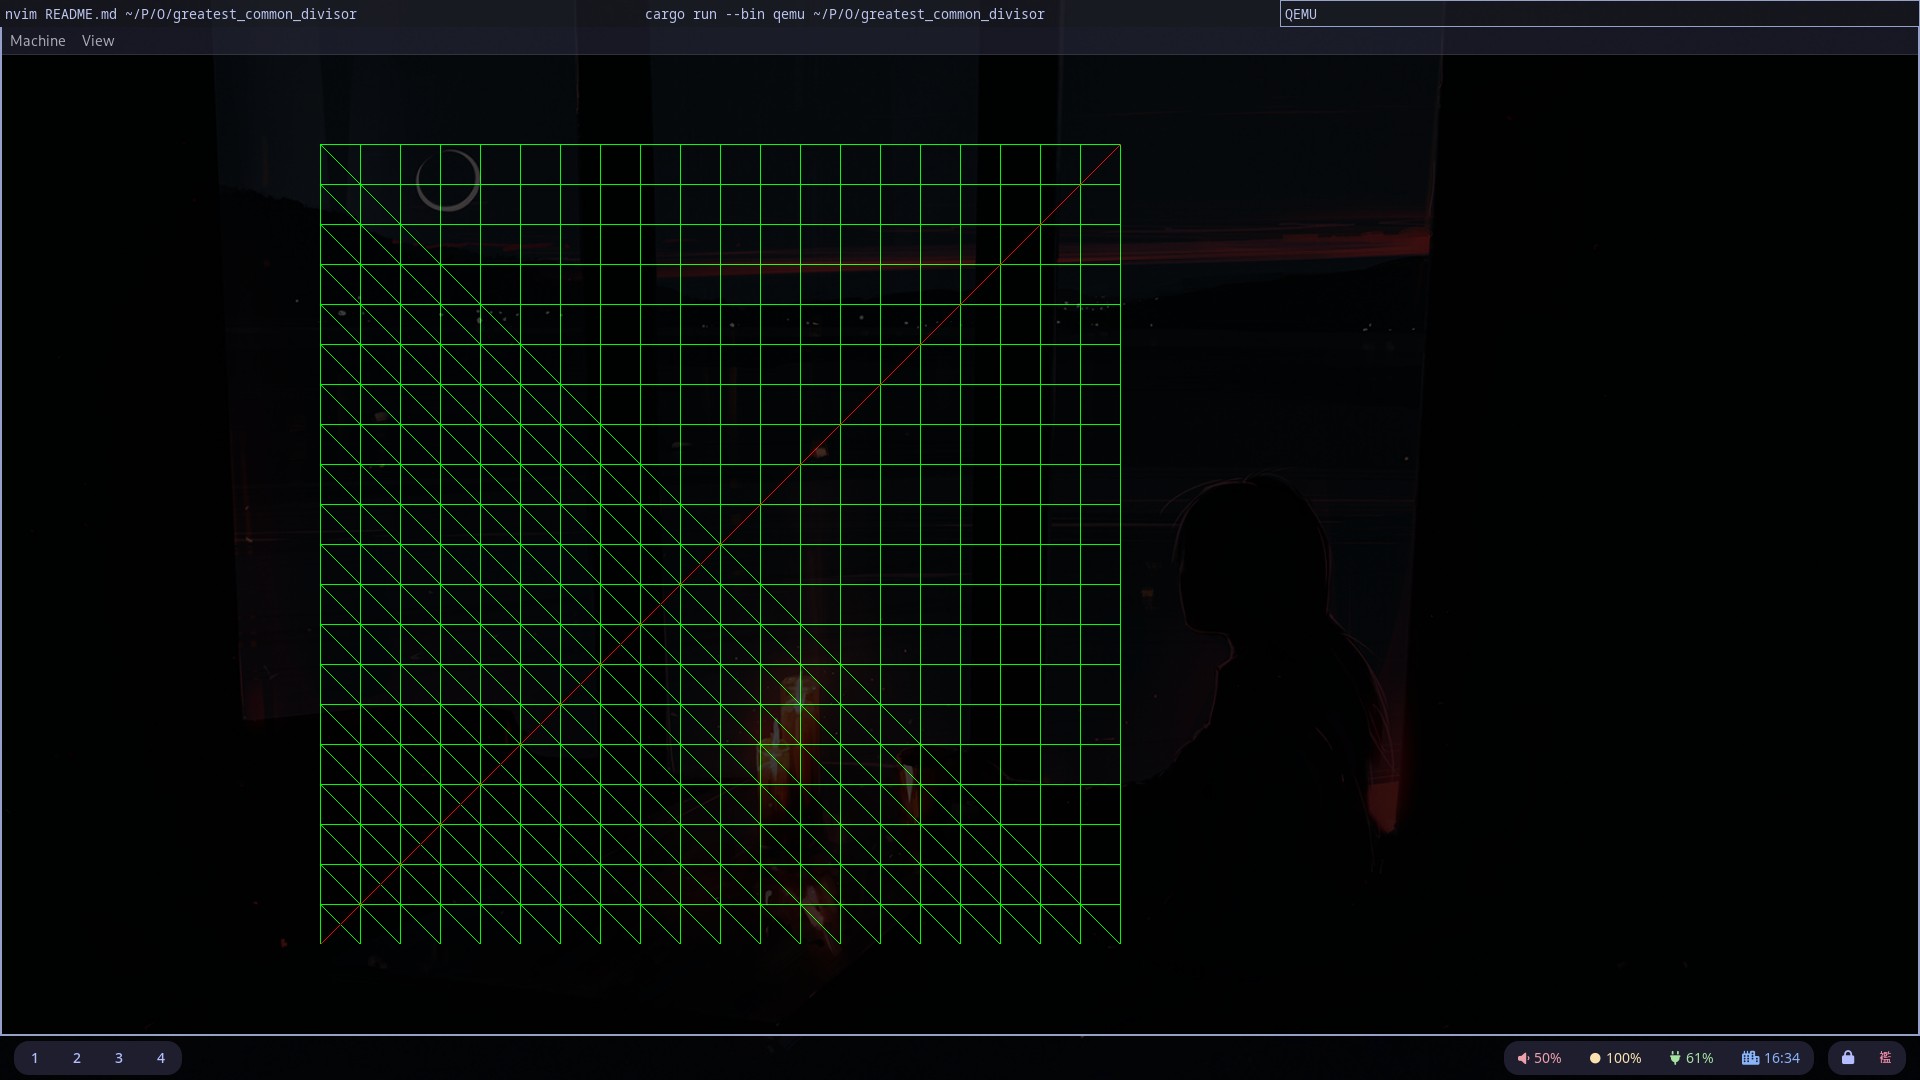
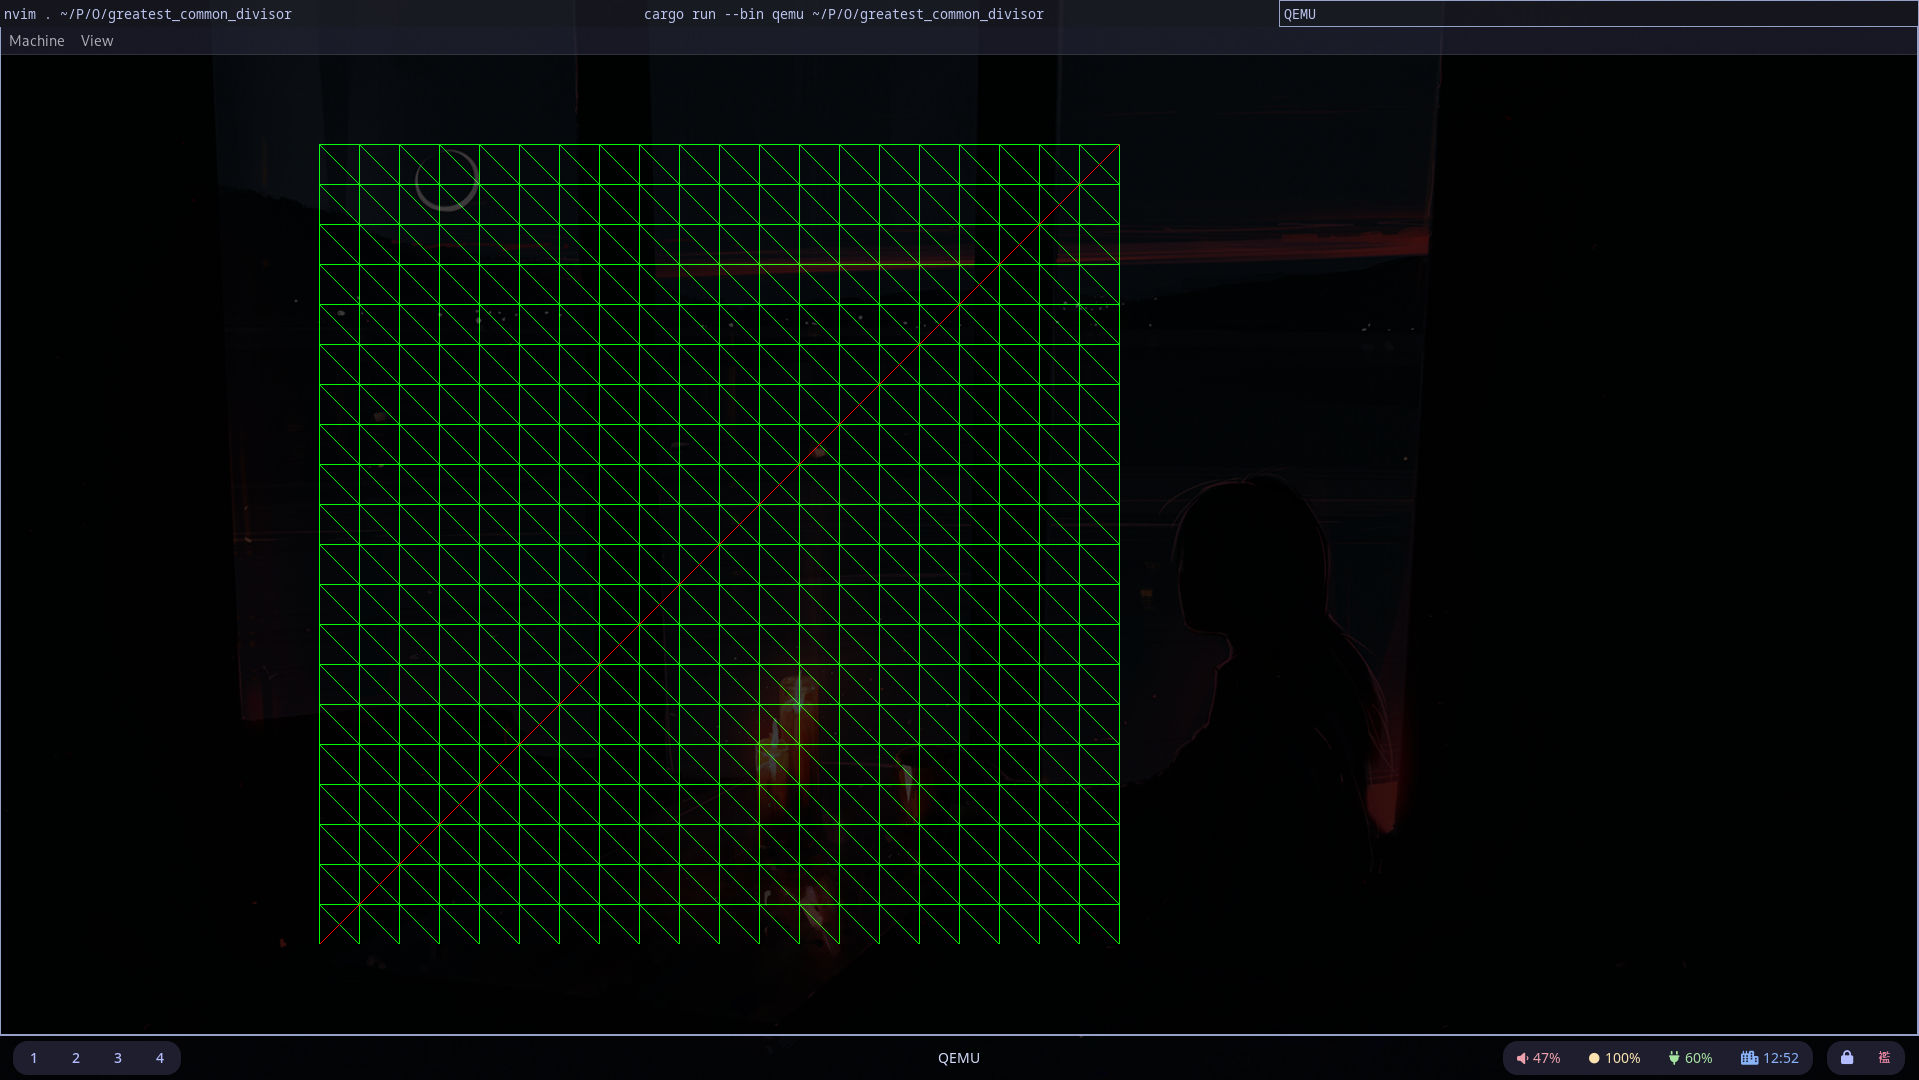
kernel: Make diagonals cover grid + update screenshot + cleanup

diff --git a/kernel/src/main.rs b/kernel/src/main.rs
@@ -26,14 +26,14 @@ fn kernel_main(boot_info: &'static mut BootInfo) -> ! {
     for n in 0..=20 {
         let step = n * 40;
 
-        // Draw 800x800 px grid 
+        // Draw 800x800 px grid
         display.draw_horizontal_line(step, 0, 800, Rgb888::GREEN);
         display.draw_vertical_line(step, 0, 800, Rgb888::GREEN);
 
         // Draw diagonals
         for x in 0..=step {
             for y in 0..=step {
-                if x + y == step {
+                if (x + y) % 40 == 0 {
                     display.draw_pixel(Pixel(Point { x, y }, Rgb888::GREEN));
                 }
             }

diff --git a/kernel/src/framebuffer.rs b/kernel/src/framebuffer.rs
@@ -53,8 +53,9 @@ impl<'f> Display<'f> {
         let (x, y) = {
             let c: (i32, i32) = coordinates.into();
 
-            (c.0 as usize, height - c.1 as usize) // Invert Y value in order to make coordinates
-                                                  // work as expected
+            (c.0 as usize, height - c.1 as usize) // Invert Y value in order to
+                                                  // make coordinates work as
+                                                  // expected
         };
 
         if (0..width).contains(&x) && (0..height).contains(&y) {
